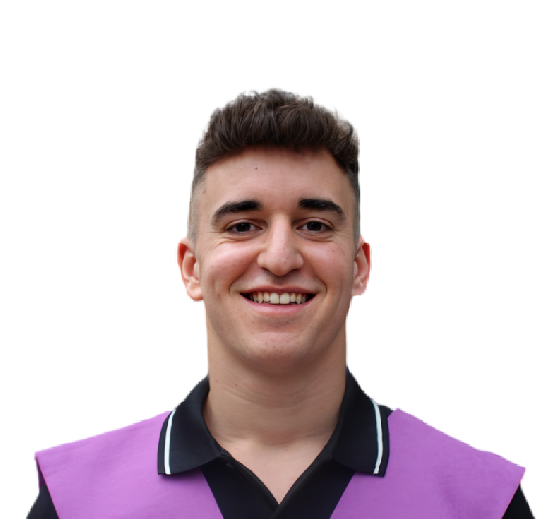
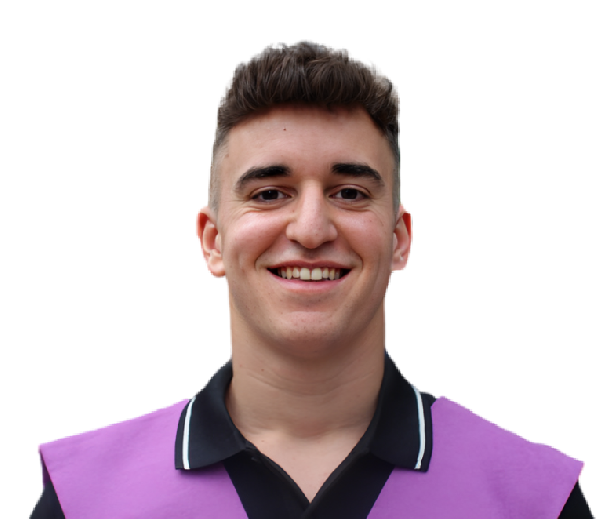
Mejorado las imágenes de Historia
Se han agrandado las fotos y hecho más transparente el fondo

diff --git a/Pages/Historia/styleHistoria.css b/Pages/Historia/styleHistoria.css
@@ -102,8 +102,8 @@ nav {
   display: grid;
   grid-template-columns: 33% 33% 34%;
   grid-auto-rows: 100%;
-  border-bottom: 3px solid var(--delta);
-  border-top: 3px solid var(--delta);
+  border-bottom: 2px solid var(--delta);
+  border-top: 2px solid var(--delta);
 }
 
 .personaFondo {
@@ -134,7 +134,7 @@ nav {
 
 .personaH3 {
   font-size: 250%;
-  margin: 13vh 0 4vh 0;
+  margin: 16vh 0 4vh 0;
 }
 
 .personaP {
